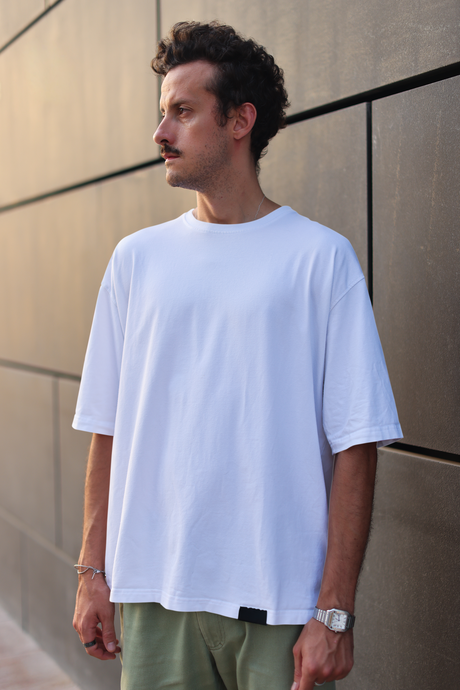
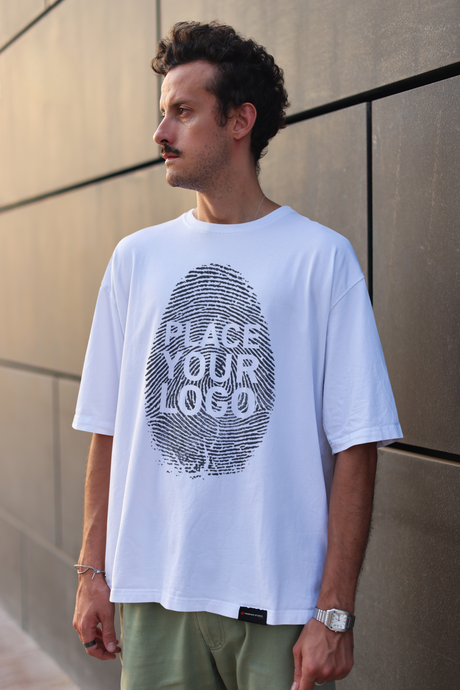
Add hover color-swap preview for mockup13 gallery card

Changed region(s): [[0.3043, 0.3652, 0.6087, 0.7]]

diff --git a/index.html b/index.html
@@ -37,9 +37,11 @@
     .card-body{padding:16px}
     .gallery{width:100%}
     .gallery-grid{display:grid;grid-template-columns:repeat(auto-fill,minmax(210px,1fr));gap:3px}
-    .gallery-card{background:var(--surface);border:1px solid var(--border);border-radius:0;overflow:hidden;cursor:pointer;transition:border-color .2s,transform .15s}
+    .gallery-card{position:relative;background:var(--surface);border:1px solid var(--border);border-radius:0;overflow:hidden;cursor:pointer;transition:border-color .2s,transform .15s}
     .gallery-card:hover{border-color:var(--accent);transform:translateY(-3px)}
     .gallery-card img{width:100%;aspect-ratio:460/690;object-fit:cover;object-position:top;display:block;background:#222}
+    .gallery-card .preview-hover,.like-card .preview-hover{position:absolute;top:0;left:0;opacity:0;transition:opacity .25s}
+    .gallery-card:hover .preview-hover,.like-card:hover .preview-hover{opacity:1}
     .back-btn{background:transparent;border:1px solid var(--border);color:var(--muted);border-radius:8px;padding:9px 14px;font-size:13px;font-weight:600;cursor:pointer;margin-bottom:12px;display:inline-flex;align-items:center;gap:6px;transition:border-color .2s,color .2s}
     .back-btn:hover{border-color:var(--accent);color:var(--accent)}
     .toolbar-row{display:flex;align-items:center;justify-content:space-between;gap:10px}
@@ -49,7 +51,7 @@
     .icon-btn:hover:not(:disabled){border-color:var(--accent);color:var(--accent)}
     .icon-btn:disabled{opacity:.3;cursor:not-allowed}
     .like-grid{display:grid;grid-template-columns:repeat(3,1fr);gap:6px}
-    .like-card{border-radius:6px;overflow:hidden;cursor:pointer;border:1px solid var(--border);transition:border-color .2s,transform .15s}
+    .like-card{position:relative;border-radius:6px;overflow:hidden;cursor:pointer;border:1px solid var(--border);transition:border-color .2s,transform .15s}
     .like-card:hover{border-color:var(--accent);transform:translateY(-2px)}
     .like-card img{width:100%;aspect-ratio:460/690;object-fit:cover;object-position:top;display:block;background:#222}
     .site-logo{position:fixed;top:16px;left:16px;height:34px;width:auto;z-index:50;cursor:pointer}
@@ -551,13 +553,22 @@ const MOCKUPS=[
   {id:'mockup10_package',label:'Mockup 10',model:'man1'},
   {id:'mockup11_package',label:'Mockup 11',model:'man1'},
   {id:'mockup12_package',label:'Mockup 12',model:'man1'},
-  {id:'mockup13_package',label:'Mockup 13',model:'man1'},
+  {id:'mockup13_package',label:'Mockup 13',model:'man1',hoverPreview:'shirt_preview_teal.png'},
 ];
+// Cards default to shirt_preview.png; a mockup with `hoverPreview` set gets a
+// second image stacked on top that fades in on hover (a colored preview),
+// purely a homepage visual — clicking through still opens the editor with
+// its normal blank/white default, untouched by whatever was shown on hover.
+function previewHTML(m){
+  const base='<img class="preview-base" src="/'+m.id+'/shirt_preview.png" alt="'+m.label+'" loading="lazy">';
+  if(!m.hoverPreview)return base;
+  return base+'<img class="preview-hover" src="/'+m.id+'/'+m.hoverPreview+'" alt="'+m.label+'" loading="lazy">';
+}
 const galleryGrid=document.getElementById('galleryGrid');
 MOCKUPS.forEach(m=>{
   const card=document.createElement('div');
   card.className='gallery-card';
-  card.innerHTML='<img src="/'+m.id+'/shirt_preview.png" alt="'+m.label+'" loading="lazy">';
+  card.innerHTML=previewHTML(m);
   card.addEventListener('click',()=>openEditor(m.id));
   galleryGrid.appendChild(card);
 });
@@ -605,7 +616,7 @@ function renderLikeGrid(){
   others.forEach(m=>{
     const c=document.createElement('div');
     c.className='like-card';
-    c.innerHTML='<img src="/'+m.id+'/shirt_preview.png" alt="'+m.label+'" loading="lazy">';
+    c.innerHTML=previewHTML(m);
     c.addEventListener('click',()=>switchMockup(m.id));
     grid.appendChild(c);
   });
